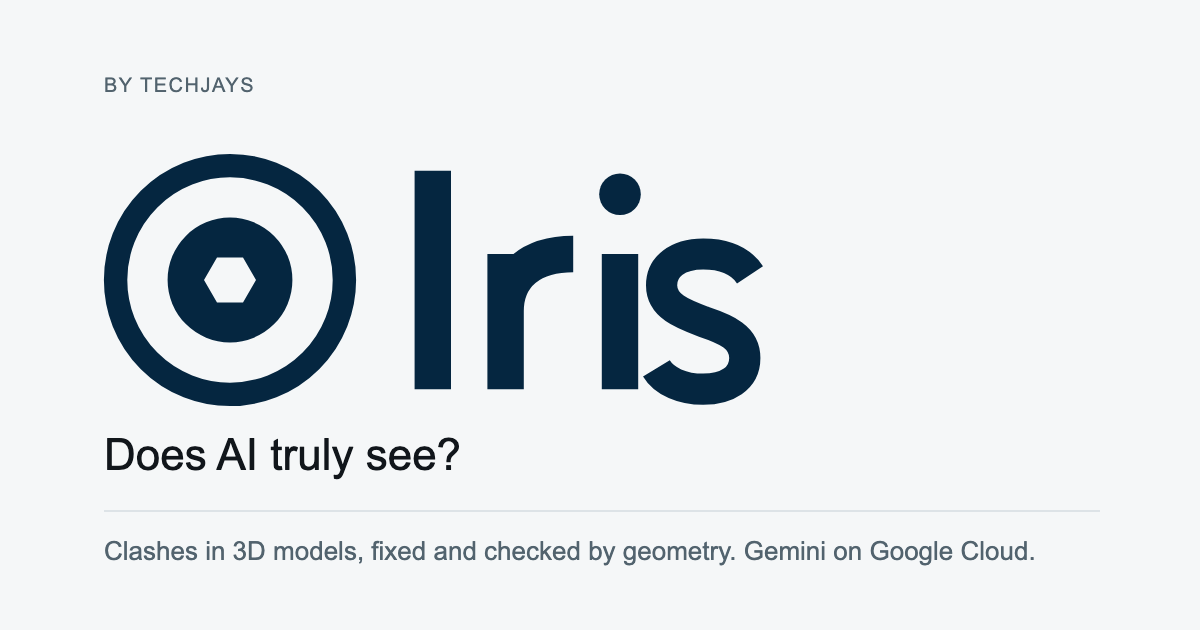
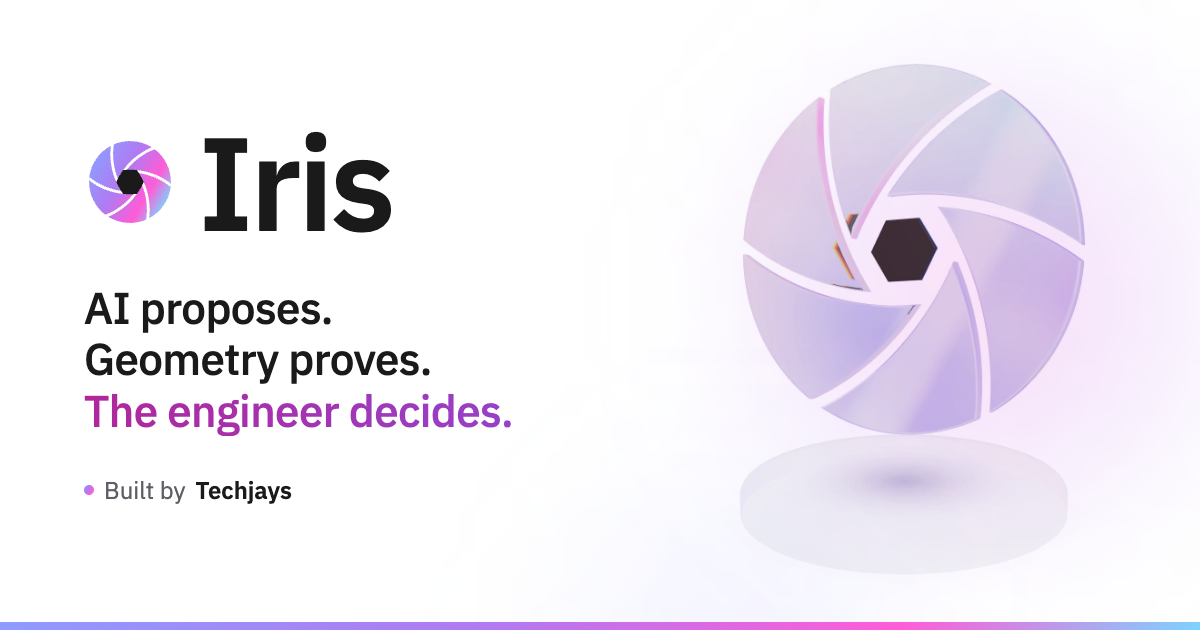
docs: README screenshots of the final app, and a new link preview
- docs/media/: home, clash review (#1), review queue (#1, Both, the verified
  "Offset duct up 400 mm"), drawings (four mismatches) and the VisionBench
  report's headline and controls; WebP, each under 230 KB. The README's
  screenshot placeholders now show them.
- web/public/brand/og.png: white, the glass Aperture, "Iris", "AI proposes.
  Geometry proves. The engineer decides.", "Built by Techjays"; rendered from
  assets/brand/iris/social/og.html. index.html's og: and twitter: tags point
  to it by full address, with the current title and description.
- Brand docs, the web-app map and the build log updated.

Claude-Session: https://claude.ai/code/session_01VS93j8fnz75gsrHx6m2v8o

diff --git a/assets/brand/iris/social/og.html b/assets/brand/iris/social/og.html
@@ -1,0 +1,42 @@
+<!doctype html>
+<!-- The link preview (og:image, twitter:image): render at 1200x630, device scale 1, after fonts load, to
+     web/public/brand/og.png (headless Chromium, e.g. Playwright page.screenshot). The glass still is the hero's
+     web/public/hero/aperture.webp; the mark is the Aperture (web/src/Brand.tsx). -->
+<html lang="en"><head><meta charset="utf-8">
+<title>Iris link preview</title>
+<link rel="stylesheet" href="https://fonts.googleapis.com/css2?family=IBM+Plex+Sans:wght@400;500;600&display=swap">
+<style>
+  :root { --ink: #1a1a1a; --muted: #5e5e66; --accent: #b07af2; --pink: #ff5cd6; --accent-ink: #b0269a;
+    --holo: linear-gradient(120deg, #8f9bff 0%, #b07af2 40%, #ff5cd6 75%, #7dd3fc 100%); }
+  * { box-sizing: border-box; margin: 0; }
+  html, body { width: 1200px; height: 630px; background: #fff; }
+  body { font-family: "IBM Plex Sans", system-ui, sans-serif; color: var(--ink); position: relative; overflow: hidden; }
+  .glow { position: absolute; border-radius: 50%; filter: blur(70px); }
+  .g1 { width: 560px; height: 560px; right: -60px; top: 20px; background: radial-gradient(circle, rgba(255,92,214,.22), rgba(176,122,242,.16) 45%, transparent 70%); }
+  .g2 { width: 420px; height: 420px; right: 260px; bottom: -220px; background: radial-gradient(circle, rgba(143,155,255,.16), transparent 70%); }
+  .bar { position: absolute; left: 0; right: 0; bottom: 0; height: 8px; background: var(--holo); }
+  .text { position: absolute; left: 84px; top: 0; bottom: 8px; width: 640px; display: flex; flex-direction: column; justify-content: center; }
+  .brand { display: flex; align-items: center; gap: 22px; }
+  .brand svg { width: 92px; height: 92px; }
+  h1 { font-size: 132px; font-weight: 600; letter-spacing: -4px; line-height: 1; }
+  .tag { margin-top: 34px; font-size: 44px; line-height: 1.16; font-weight: 500; letter-spacing: -.6px; }
+  .tag span { display: block; }
+  .tag .hl { background: linear-gradient(100deg, #b0269a, #8a4fe0); -webkit-background-clip: text; background-clip: text; color: transparent; }
+  .by { margin-top: 38px; display: inline-flex; align-items: center; gap: 10px; font-size: 24px; color: var(--muted); }
+  .by b { color: var(--ink); font-weight: 600; }
+  .by i { width: 10px; height: 10px; border-radius: 50%; background: var(--holo); display: inline-block; }
+  .art { mix-blend-mode: multiply; position: absolute; right: 56px; top: 42px; height: 546px; }
+</style></head>
+<body>
+  <div class="glow g1"></div><div class="glow g2"></div>
+  <img class="art" src="../../../../web/public/hero/aperture.webp" alt="">
+  <div class="text">
+    <div class="brand">
+      <svg viewBox="0 0 100 100"><defs><linearGradient id="h" gradientUnits="userSpaceOnUse" x1="9.54" y1="26.64" x2="90.46" y2="73.36"><stop offset="0" stop-color="#8f9bff"/><stop offset=".4" stop-color="#b07af2"/><stop offset=".75" stop-color="#ff5cd6"/><stop offset="1" stop-color="#7dd3fc"/></linearGradient></defs><path fill="#1a1a1a" d="M42.29 36.65L42.83 36.6L42.51 37.03L46.49 36.73L46.81 36.32A73.9 73.9 0 0 1 57.71 36.65L58.02 37.09L57.49 37.03L59.73 40.33L60.26 40.4A73.9 73.9 0 0 1 65.41 50L65.19 50.49L64.97 50L63.25 53.59L63.44 54.08A73.9 73.9 0 0 1 57.71 63.35L57.17 63.4L57.49 62.97L53.51 63.27L53.19 63.68A73.9 73.9 0 0 1 42.29 63.35L41.98 62.91L42.51 62.97L40.27 59.67L39.74 59.6A73.9 73.9 0 0 1 34.59 50L34.81 49.51L35.03 50L36.75 46.41L36.56 45.92A73.9 73.9 0 0 1 42.29 36.65Z"/><path fill="url(#h)" d="M46.49 36.73A70.5 70.5 0 0 1 76.62 14.34A44.5 44.5 0 0 1 94.47 51.63A73.5 73.5 0 0 0 46.49 36.73ZM59.73 40.33A70.5 70.5 0 0 1 94.19 55.22A44.5 44.5 0 0 1 70.82 89.33A73.5 73.5 0 0 0 59.73 40.33ZM63.25 53.59A70.5 70.5 0 0 1 67.58 90.88A44.5 44.5 0 0 1 26.35 87.7A73.5 73.5 0 0 0 63.25 53.59ZM53.51 63.27A70.5 70.5 0 0 1 23.38 85.66A44.5 44.5 0 0 1 5.53 48.37A73.5 73.5 0 0 0 53.51 63.27ZM40.27 59.67A70.5 70.5 0 0 1 5.81 44.78A44.5 44.5 0 0 1 29.18 10.67A73.5 73.5 0 0 0 40.27 59.67ZM36.75 46.41A70.5 70.5 0 0 1 32.42 9.12A44.5 44.5 0 0 1 73.65 12.3A73.5 73.5 0 0 0 36.75 46.41Z"/></svg>
+      <h1>Iris</h1>
+    </div>
+    <p class="tag"><span>AI proposes.</span><span>Geometry proves.</span><span class="hl">The engineer decides.</span></p>
+    <p class="by"><i></i>Built by <b>Techjays</b></p>
+  </div>
+  <div class="bar"></div>
+</body></html>

diff --git a/web/index.html b/web/index.html
@@ -6,8 +6,22 @@
     <meta name="theme-color" content="#ffffff" />
     <title>Iris · AI design coordination</title>
     <meta name="description" content="Iris finds where 3D models clash, proposes fixes that edit the real elements, and checks every fix with geometry." />
-    <meta property="og:title" content="Iris — Does AI truly see?" />
-    <meta property="og:image" content="/brand/og.png" />
+    <!-- The link preview: web/public/brand/og.png (1200×630), made from assets/brand/iris/social/og.html. Crawlers need
+         the image's full address. -->
+    <meta property="og:type" content="website" />
+    <meta property="og:site_name" content="Iris" />
+    <meta property="og:url" content="https://iris-techjays.web.app/" />
+    <meta property="og:title" content="Iris · AI proposes. Geometry proves. The engineer decides." />
+    <meta property="og:description" content="Iris finds where 3D models clash, proposes fixes that edit the real elements, and checks every fix with geometry. Built by Techjays." />
+    <meta property="og:image" content="https://iris-techjays.web.app/brand/og.png" />
+    <meta property="og:image:width" content="1200" />
+    <meta property="og:image:height" content="630" />
+    <meta property="og:image:alt" content="Iris: AI proposes. Geometry proves. The engineer decides. Built by Techjays." />
+    <meta name="twitter:card" content="summary_large_image" />
+    <meta name="twitter:title" content="Iris · AI proposes. Geometry proves. The engineer decides." />
+    <meta name="twitter:description" content="Iris finds where 3D models clash, proposes fixes that edit the real elements, and checks every fix with geometry. Built by Techjays." />
+    <meta name="twitter:image" content="https://iris-techjays.web.app/brand/og.png" />
+    <meta name="twitter:image:alt" content="Iris: AI proposes. Geometry proves. The engineer decides. Built by Techjays." />
     <link rel="icon" href="/favicon.svg" type="image/svg+xml" />
     <link rel="icon" href="/brand/favicon-32.png" type="image/png" sizes="32x32" />
     <link rel="icon" href="/brand/favicon.ico" sizes="any" />

diff --git a/README.md b/README.md
@@ -364,25 +364,25 @@ one-time setup is `deploy/github-setup.sh`, and `deploy/deploy.sh` still deploys
 
 See it live at <https://iris-techjays.web.app>.
 
-<!-- screenshot: home → docs/media/home.png (first screen: open a sample project)
-![Iris: the first screen](docs/media/home.png)
--->
+**Home:** start a project, or try the sample building or its drawings.
 
-<!-- screenshot: clash-review → docs/media/clash-review.png (clash list and 3D viewer, Northbank)
-![Clash review in 3D](docs/media/clash-review.png)
--->
+![Iris Home: the tagline beside the glass Aperture, and the three ways to start](docs/media/home.webp)
 
-<!-- screenshot: review-queue → docs/media/review-queue.png (verified fix beside the Before / After view)
-![The review queue: a verified fix, before and after](docs/media/review-queue.png)
--->
+**Clash review:** the sample building with clash #1 (supply air main × transfer girder) selected in 3D.
 
-<!-- screenshot: drawings → docs/media/drawings.png (the 2D drawing reader: confirmed items and mismatches)
-![The 2D drawing reader](docs/media/drawings.png)
--->
+![Clash review: clash #1 selected in the 3D viewer, with the clash list and its details](docs/media/clash-review.webp)
 
-<!-- screenshot: visionbench → docs/media/visionbench-report.png (the VisionBench report: categories and controls)
-![The VisionBench report](docs/media/visionbench-report.png)
--->
+**Review queue:** on #1, the geometry-verified fix "Offset duct up 400 mm", before and after together ("Both").
+
+![The review queue on clash #1: the verified offset fix beside the Before / After view](docs/media/review-queue.webp)
+
+**Drawings:** the sample PDF sheet read by AI and checked against the model: four mismatches.
+
+![The drawing reader's Mismatches tab: four mismatches between the sheet and the model](docs/media/drawings.webp)
+
+**VisionBench:** `gemini-3.8-flash`, 7 seeds: accuracy per job with pictures, and the picture controls.
+
+![The VisionBench report: accuracy per job and the picture controls](docs/media/visionbench.webp)
 
 ## Team
 

diff --git a/docs/architecture/22-build-log.md b/docs/architecture/22-build-log.md
@@ -1312,3 +1312,16 @@ longer shadows its viewer-call log. Checked: `npm test` (566), `tsc`, `vite buil
 `test_web_pages.py`, and headless Chromium (GPU) screenshots of Home, the clash row hover, Models, Coordination,
 Activity, Settings, the unknown project and no-WebGL at 1512×805 and 390×844 on a local one-origin server with no
 Gemini key.
+
+**Nov 23 (2026-11-23), README screenshots and a new link preview** ([12](12-web-app.md)). The README's Screenshots
+section shows the final app in `docs/media/` (WebP, 2400×1500, each under 230 KB): `home.webp` (the Home hero with the
+glass Aperture), `clash-review.webp` (the sample building, clash #1 selected), `review-queue.webp` (Prepare fixes, the
+queue on #1 in Both with the verified "Offset duct up 400 mm through girder opening"), `drawings.webp` (Try the sample
+drawings, the Mismatches tab's four) and `visionbench.webp` (the gemini-3.8-flash 7-seed report's own headline and
+controls charts, other sections hidden). The link preview `web/public/brand/og.png` (1200×630) still showed the earlier
+split-O and the old tagline; it is now rendered from `assets/brand/iris/social/og.html`: white, the glass Aperture still,
+the mark and "Iris", "AI proposes. Geometry proves. The engineer decides." and "Built by Techjays", pink and lavender
+accents. `web/index.html` gains `og:type`, `og:url`, `og:description`, the image's full address, size and alt text,
+and the `twitter:` card tags; `og:title` carries the current tagline. The other `web/public/brand/` icons already had
+the Aperture. Checked: headless Chromium (GPU) on a local one-origin server with no Gemini key (saved sample data),
+each image looked at; `npm test`, `npm run build`, `test_docs_map.py`.

diff --git a/docs/brand-assets.md b/docs/brand-assets.md
@@ -25,7 +25,8 @@ shows it.
 | `svg/app-icon.svg`, `svg/app-icon-maskable.svg` | App icons; the maskable one keeps the mark inside the safe area |
 | `svg/safari-pinned-tab.svg` | Single-colour pinned-tab icon |
 | `svg/spinner.svg` | The loading spinner (used as a CSS mask) |
-| `svg/og.svg` | The social card source |
+| `social/og.html` | The link-preview card (1200×630): the glass Aperture, "Iris", the tagline and "Built by Techjays"; rendered to `web/public/brand/og.png` |
+| `svg/og.svg` | The earlier social card (split-O), for reference |
 | `tokens/iris-colours.json`, `tokens/iris-tokens.css` | The colours above as JSON and CSS custom properties |
 
 "Light" and "dark" name the background the file is meant for.
@@ -42,7 +43,9 @@ shows it.
   nothing advances on a timer, and no animation stands in for a geometry result.
 - **Icons:** `web/public/favicon.svg` and `web/public/brand/` (`favicon.svg`, `favicon-32.png`, `favicon.ico`, the Apple
   touch icon, the Android and maskable icons rendered from the mark, the pinned tab, the manifest); theme colour white.
-  `og.png` still shows the earlier mark.
+- **Link preview:** `web/public/brand/og.png` (1200×630), rendered from `social/og.html`: white, the glass Aperture
+  still, "Iris", "AI proposes. Geometry proves. The engineer decides." and "Built by Techjays". `web/index.html`'s
+  `og:` and `twitter:` tags point to it by its full address.
 - **Report:** the PDF cover carries the Aperture lockup (`document.LOCKUP`).
 - Reduced motion stills the spinner.
 

diff --git a/docs/architecture/12-web-app.md b/docs/architecture/12-web-app.md
@@ -1027,7 +1027,8 @@ IndexedDB is used.
 - **Brand assets:** [`assets/brand/iris/`](../../assets/brand/iris/) holds the direction-05 library (vector
   masters, exports, icons, motion). The app does not import it: `Brand.tsx` carries the wordmark and symbol paths, and
   `web/public/brand/` holds copies of the icons it serves (favicon `.ico`, Apple touch, Android and maskable icons,
-  `site.webmanifest`, the Safari pinned tab, `og.png` from `social/og-light.png`, and `iris-spinner.svg`, the optical
+  `site.webmanifest`, the Safari pinned tab, `og.png`, the link preview that `index.html`'s `og:` and `twitter:` tags name, rendered from
+  `social/og.html`, and `iris-spinner.svg`, the optical
   micro symbol that `.spinner` uses as a mask). `web/public/favicon.svg` is the kit's adaptive favicon. Motion follows
   the kit's semantics: Orbit only while work runs, Settle only after the server kept a fix (`markFixed`), Reveal once
   in the boot splash; reduced motion stills all three. Design and commands: [docs/brand-assets.md](../brand-assets.md).
